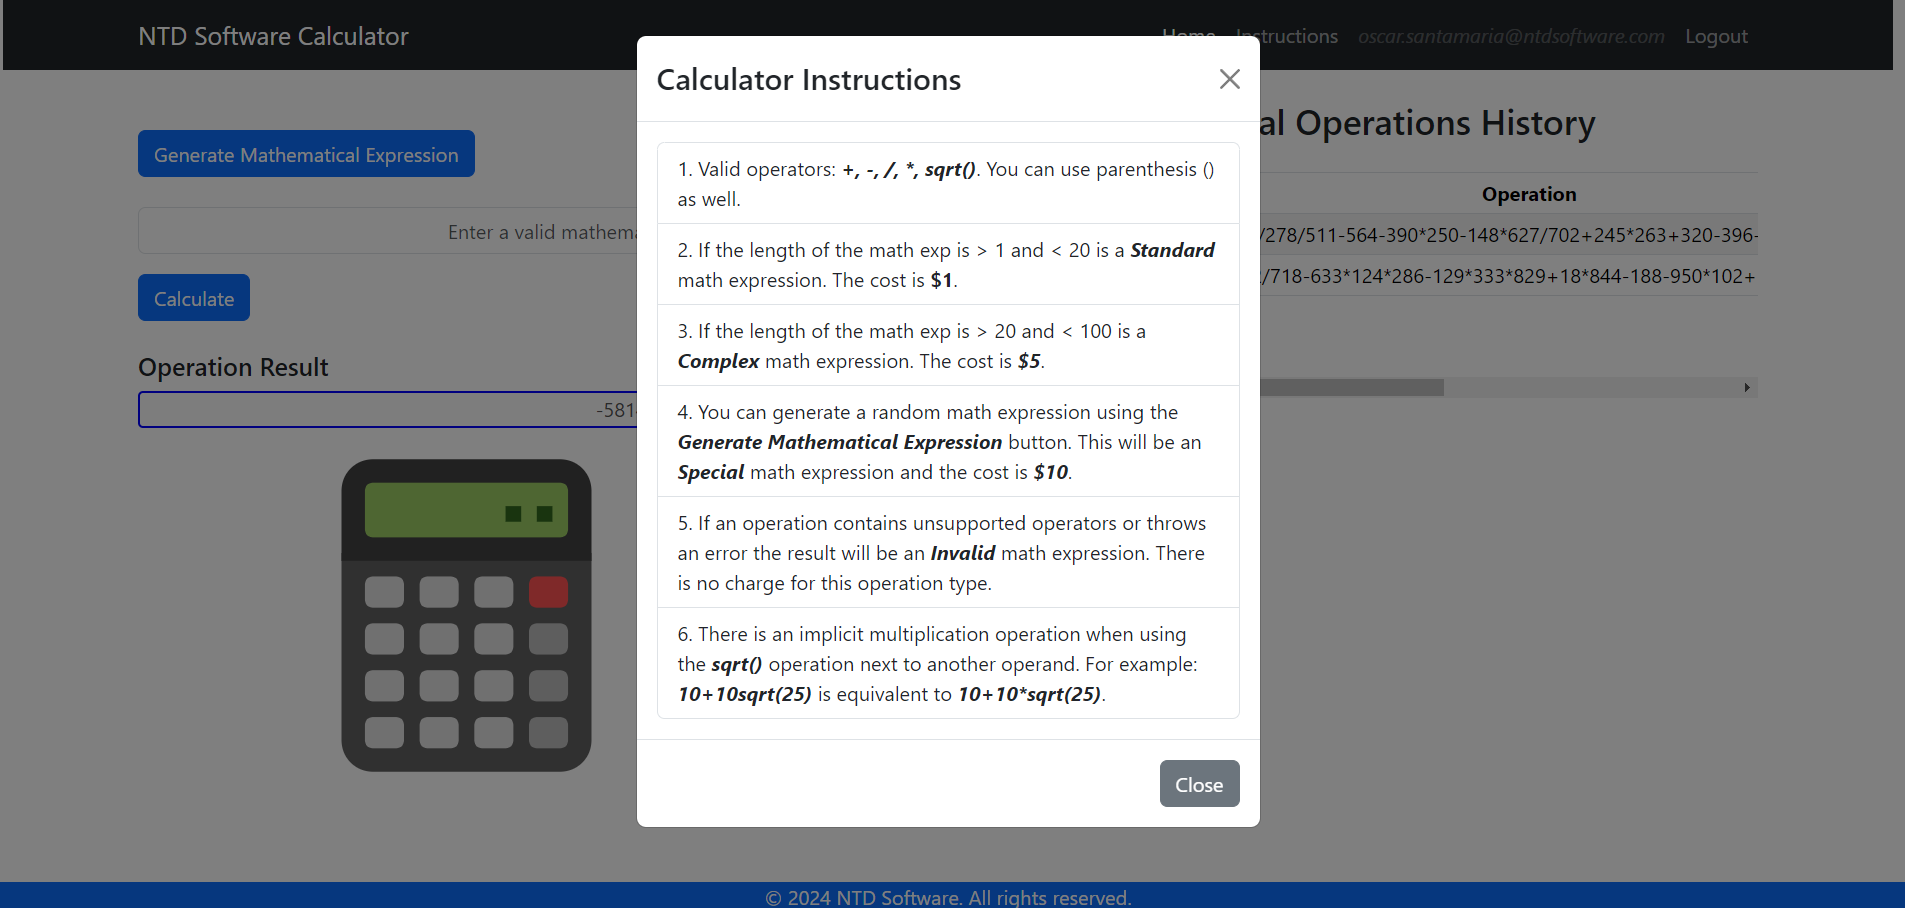
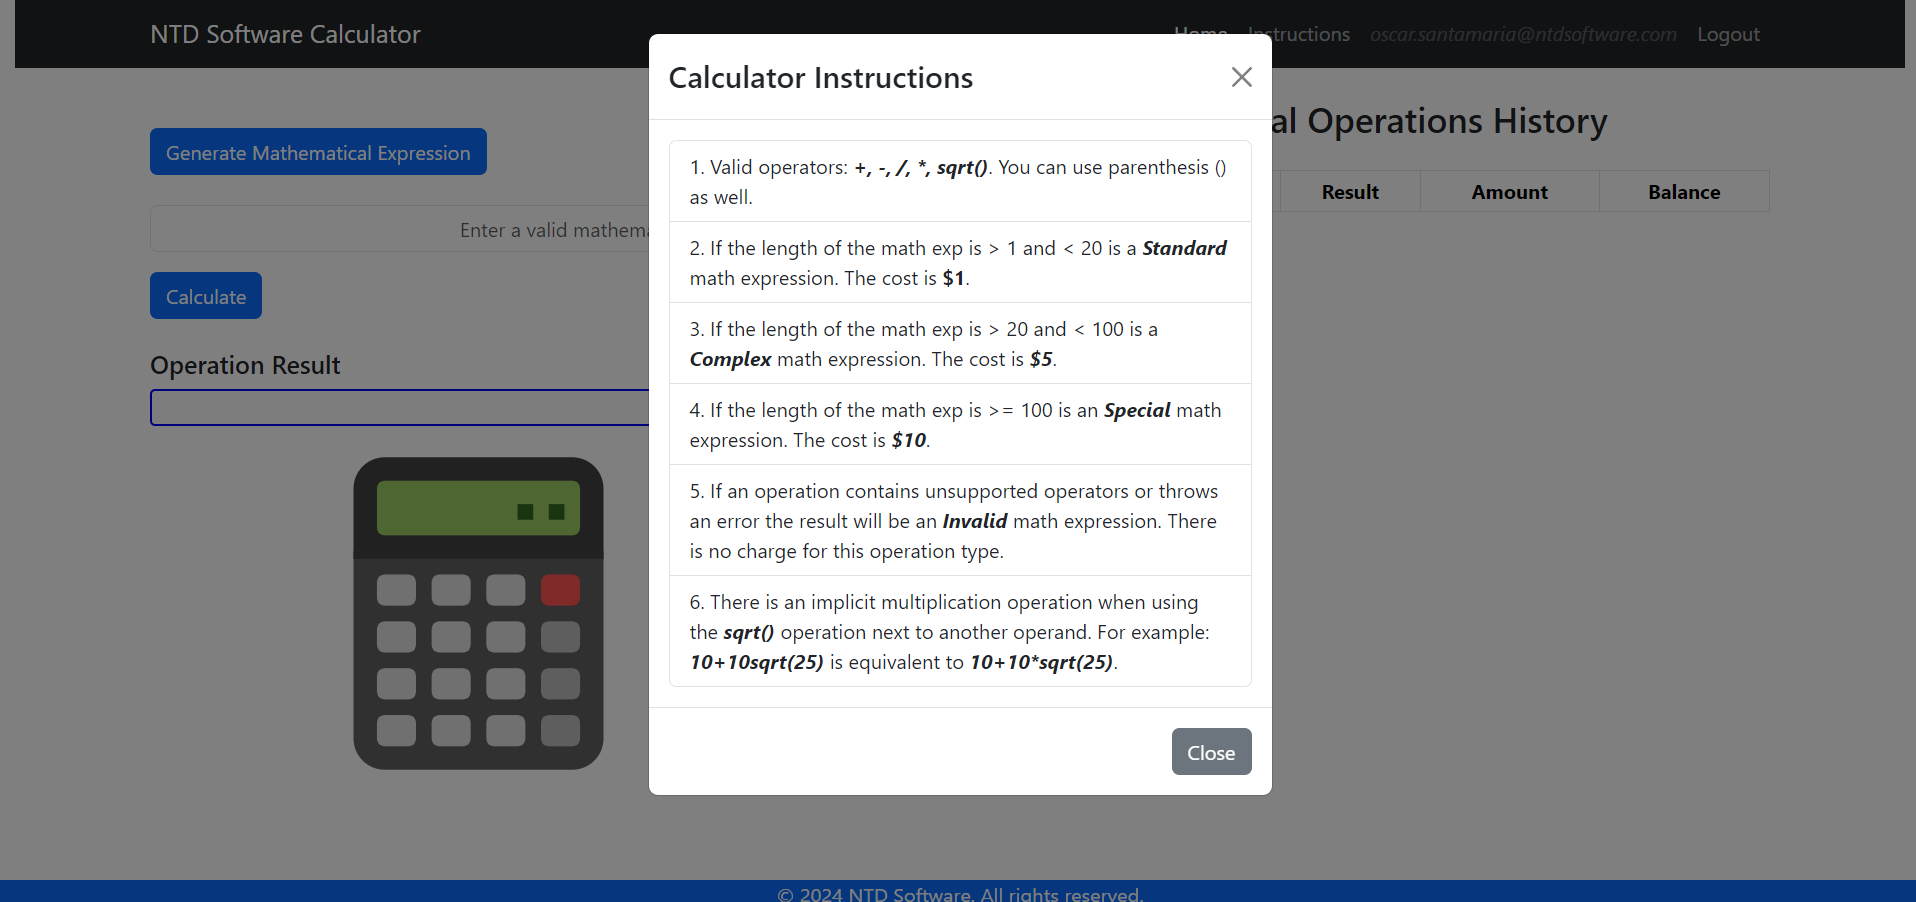
Fine tunning instructions on readme file

diff --git a/calculator-ui/src/components/HeaderComponent.jsx b/calculator-ui/src/components/HeaderComponent.jsx
@@ -58,8 +58,8 @@ export default function HeaderComponent({ username }) {
                   The cost is <b><i>$5</i></b>.
                 </ListGroup.Item>
                 <ListGroup.Item as="li">
-                  You can generate a random math expression using the <b><i>Generate Mathematical Expression </i></b>button. 
-                  This will be an <b><i>Special</i></b> math expression and the cost is <b><i>$10</i></b>. 
+                  If the length of the math exp is &gt;= 100 is an <b><i>Special</i></b> math expression. 
+                  The cost is <b><i>$10</i></b>. 
                 </ListGroup.Item>
                 <ListGroup.Item as="li">
                   If an operation contains unsupported operators or throws an error the result will be an <b><i>Invalid</i></b> math expression. 

diff --git a/README.md b/README.md
@@ -1,6 +1,54 @@
+# NTD CALCULATOR UI
+
+This application has been created using React 18.3.1 and Bootstrap 5 and it works as the UI for the NTD Calculator API. This is a simple UI that has the following features:
+
+- Generates a random mathematical expression to be calculated.
+- Allows the user to type a mathematical expression and calculate its result.
+- Visualize user's historical record of operations and calculations in a paginated table.
+
+## Instructions
+
+- The user can type any text in the _Enter a valid mathematical expression_ field but the only valid operators are _+, -, /, *,_ and _sqrt()_. You can use parenthesis _()_ as well.
+- Initial user balance has been set to _$5000_.
+- If the length of the math exp is _&gt; 1 and &lt; 20_ the operation type will be a _Standard_ math expression. The cost is _$1_.
+- If the length of the math exp is _&gt; 20 and &lt; 100_ the operation type will be a _Complex_ math expression. The cost is _$5_.
+- If the length of the math exp is _&gt;= 100_ the operation type will be an _Special_ math expression. The cost is _$10_.
+- If an operation contains unsupported operators or throws an error the result will be an _Invalid_ math expression. There is no charge for this operation type.
+- There is an implicit multiplication operation when using the <b><i>sqrt()</i></b> operation next to another operand. For example: _10+10sqrt(25)_ is equivalent to _10+10*sqrt(25)_.
+- _User Mathematical Operations History_ will be populated when there is an invalid or successful result.
+
+### Login
+![UI-Login](https://github.com/ozzman02/ntd-code-challenge/blob/main/files/ui/login.png)
+
+User1 credentials:
+```sh
+user: oscar.santamaria@ntdsoftware.com
+password: user1pwd
+```
+User2 credentials:
+```sh
+user: karen.navarro@ntdsoftware.com
+password: user2pwd
+```
+
+### Home Page
+![UI-HomePage](https://github.com/ozzman02/ntd-code-challenge/blob/main/files/ui/home-no-data.png)
+
+### Instructions
+![UI-HomePage](https://github.com/ozzman02/ntd-code-challenge/blob/main/files/ui/instructions.png)
+
+### Generate Mathematical Expression
+![UI-GenMathExp](https://github.com/ozzman02/ntd-code-challenge/blob/main/files/ui/generate-math-exp.png)
+
+### Calculate result
+![UI-Calculate](https://github.com/ozzman02/ntd-code-challenge/blob/main/files/ui/calculate.png)
+
+### Paginated table
+![UI-Pagination](https://github.com/ozzman02/ntd-code-challenge/blob/main/files/ui/pagination-1.png)
+
 # NTD CALCULATOR API
 
-This API has been created following a microservice architecture using Java 17, Maven 3.9.6, Spring Boot 3.3.3, JWT authentication and MySQL database that work in conjunction with Flyway migrations seeds 
+This API has been created following a microservice architecture using Java 17, Maven 3.9.6, Spring Boot 3.3.3, JWT authentication and MySQL database that work in conjunction with Flyway migrations seeds. Mathematical expressions are process with the help of the exp4j library. 
 
 ## Microservices
 
@@ -81,8 +129,29 @@ The swagger ui is available for this service at _http://localhost:8083/swagger-u
 |HTTP Method|Request Mapping|Description|
 |----|----|----|
 |POST|/api/calculator|Process a mathematial expression|
-|GET|/api/calculator/generate|Generates a random mathematical expression from www.random.org|
+|GET|/api/calculator/generate|Generates a random math expression from www.random.org|
 |GET|/api/calculator/records/{id}/page/{page}|Paginated user's record|
+
+## Docker images for services
+The application is using the _Maven Fabric8 Plugin_ to build and push docker images. Images for services can be found according to the table below:
+
+|Service|Path|Image name|
+|ntd-eureka-server|/src/main/docker/|osantamaria/ntd-eureka-server|
+|ntd-api-gateway|/src/main/docker/|osantamaria/ntd-api-gateway|
+|ntd-authorization-service|/src/main/docker/|osantamaria/ntd-authorization-service|
+|ntd-user-service|/src/main/docker/|osantamaria/ntd-user-service|
+|ntd-calculator-service|/src/main/docker/|osantamaria/ntd-calculator-service|
+
+From the root folder of each project run the following command to build the images:
+```sh
+mvn clean compile package docker:build
+```
+
+## Docker compose
+From the ./services folder run:
+```sh
+docker-compose up -d
+```
 
 ## Postman Collection
 The GBH.postman_collection.json file can be found inside the files/postman directory.
